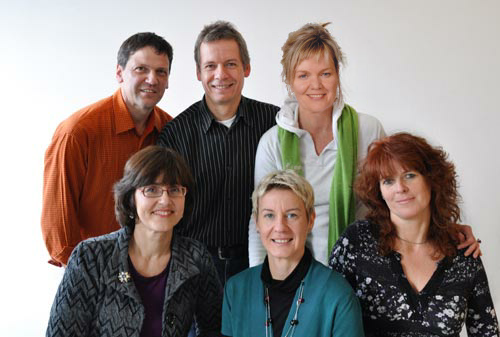
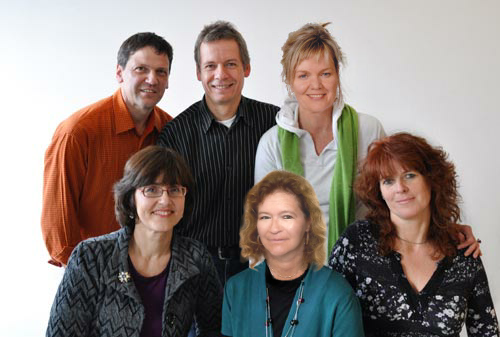
THZ: Replaced Baumeister bei Uhl

Changed region(s): [[0.48, 0.4748, 0.66, 0.8902]]

diff --git a/therapiezentrum-dante/web/subpages/uhl.html b/therapiezentrum-dante/web/subpages/uhl.html
@@ -1,0 +1,96 @@
+<html>
+<head>
+<title>Karin Uhl - Psychologische Beraterin, Coaching für Paare, Familien, Kinder und Jugendliche</title>
+<meta http-equiv="Content-Type" content="text/html; charset=utf-8">
+<link href="../stylesheets/styles.css" rel="Stylesheet" type="text/css">
+<script type="text/javascript" src="../javascript/jquery-1.12.4.min.js"></script>
+<script type="text/javascript" src="../javascript/subpage.js"></script>
+</head>
+
+<body id="uhl">
+	<table id="main">
+		<tr>
+			<td id="text">
+				<h1>
+					<div class="main">Karin Uhl</div>
+					<div class="sub">Psychologische Beraterin, Coaching für Paare, Familien, Kinder und Jugendliche</div>
+				</h1>
+
+				<h2>Hilfe zur Selbsthilfe</h2>
+				<p>Manchmal hilft schon ein offenes Ohr - jemand, der zuhört und die Möglichkeit bietet, über die Belastungen
+					oder Probleme zu sprechen. Im Rahmen dieser Gespräche möchte ich Sie dabei unterstützen, Wege zu finden, um
+					Belastungen zu erkennen und wieder zurück zur inneren Stärke zu gelangen.</p>
+
+				<h2>Gerne unterstütze ich Sie in den Bereichen</h2>
+
+				<ul>
+					<li>Stärkung des Selbstbewusstsein/Stärkung meines ICHs</li>
+					<li>Ressourcen erkennen</li>
+					<li>Stressbewältigung/Entpannung/Vorbeugung von Burnout</li>
+					<li>Unterstützung bei Ängsten und Phobien</li>
+					<li>Entscheidungshilfen</li>
+					<li>Resilienz</li>
+					<li>Konfliktbearbeitung und -lösung im privaten und beruflichen Bereich</li>
+					<li>Vereinbarkeit von Famile, Beruf und Privatleben</li>
+					<li>Ziele und Wünsche verwirklichen</li>
+					<li>„Wie achte ich wieder mehr auf mich selbst?“</li>
+					<li>„Was bin ich mir wert?“</li>
+				</ul>
+
+				<p>Ich arbeite mit verhaltensorientierten Methoden, sowie mit der Gesprächstherapie nach Rogers.</p>
+
+				<h2>Über mich</h2>
+				<ul>
+					<li>geb. 1966 in München</li>
+					<li>Mutter einer mittlerweile erwachsenen Tochter</li>
+					<li>Ausbildung zur Bankkauffrau</li>
+					<li>Sachbearbeitung bei verschiedenen Krankenkassen und Versicherungen</li>
+					<li>Gruppenleitung Mittagsbetreuung</li>
+				</ul>
+
+				<h2>Fortbildungen</h2>
+				<ul>
+					<li>Derzeit Fortbildung zur Heilpraktikerin für Psychotherapie (Deutsche Heilprakikerschule München)</li>
+					<li>Ausbildung zum Psychologischen Berater (Deutsche Heilpraktikerschule München)</li>
+					<li>„Kompetenter Umgang mit disziplinlosen Schülern“ (Staatliches Schulamt Fürstenfeldbruck)</li>
+					<li>„Jetzt konzentrier Dich mal“ (Staatliches Schulamt Fürstenfeldbruck)</li>
+					<li>„Konflikte konstruktiv lösen“ (Konfliktlösungsmodell nach Gordon)</li>
+					<li>Schulung für Mittagsbetreuer (Katholischer Deutscher Frauenbund)</li>
+				</ul>
+
+				<p>Inhalte unter anderem:</p>
+
+				<ul>
+					<li>Kompetenztraining zum Thema Grenzen setzen mit Kindern</li>
+					<li>Kommunikation</li>
+					<li>Entwicklungspsychologischer Stand des Schulkindes</li>
+					<li>Pädagogische Grundlagen und die pädagogische Beobachtung als Bais des Handelns</li>
+					<li>Die Freispielpädagogik in ihren Grundzügen</li>
+				</ul>
+			</td>
+
+			<td id="pict">
+				<div class="image">
+					<img src="../fotos_thz/uhl.jpg">
+				</div>
+
+				<div class="image-text">
+					<div class="name">Karin Uhl</div>
+					<div class="profession">
+						Psychologische Beraterin<br>Coaching für Paare, Familien, Kinder und Jugendliche
+					</div>
+				</div>
+
+				<p>
+					Tel. 0151 / 17234123<br> Termine nach Vereinbarung
+				</p>
+
+				<ul class="arrow">
+					<li><a href="mailto:beratung.karin-uhl@gmx.net">Email</a></li>
+				</ul>
+			</td>
+
+		</tr>
+	</table>
+</body>
+</html>

diff --git a/therapiezentrum-dante/web/subpages/impressum.html b/therapiezentrum-dante/web/subpages/impressum.html
@@ -16,27 +16,6 @@
 				</h1>
 				<h2>Ansprechpartner für die Webseite gemäß §5 TMG:</h2>
 
-				<h3>Astrid Baumeister</h3>
-				<div class="details">
-					<p>
-						Dipl. Oecotrophologin, Heilpraktikerin<br> Praxisadresse: Dantestraße 29, 80637 München<br> Büro:
-						Ernst-Platz-Str. 30a, 80992 München<br>Tel. 089-14869713 / Fax 089-14000421<br> Email:
-						info@praxis-abaumeister.de
-					</p>
-					<p>
-						Berufsbezeichnung 1: Heilpraktikerin<br> Die Erlaubnis zur Ausübung der Heilkunde ohne Bestallung mit der
-						Berufsbezeichnung "Heilpraktikerin" wurde am 22. Mai 2006 durch das Referat für Gesundheit und Umwelt der
-						Landeshauptstadt München erteilt.
-					</p>
-					<p>Berufsbezeichung 2: Diplom Oecotrophologin, Zertifikat Ernährungsberaterin VDOE</p>
-					<p>Mitgliedschaft im Berufsverband BDHN, Bund Deutscher Heilpraktiker und Naturheilkundiger e.V., Weiglstraße
-						9, 80636 München</p>
-					<p>
-						Mitgliedschaft im Berufsverband VDOE, BerufsVerband Oecotrophologie e.V. (VDOE), Reuterstr. 161, 53113 Bonn<br>Es
-						gilt die Berufsordnung des VDOE.
-					</p>
-				</div>
-
 				<h3>Angelika Hall</h3>
 				<div class="details">
 					<p>
@@ -80,6 +59,17 @@
 						Berufsbezeichnung &bdquo;Heilpraktikerin&ldquo; wurde am 13.08.1990 durch das Gesundheitsamt München, Dachauerstr.
 						90 erteilt.
 					</p>
+				</div>
+
+				<h3>Karin Uhl</h3>
+				<div class="details">
+					<p>
+						Psychologische Beraterin<br>Praxisadresse: Dantestraße 29, 80637 München<br> Tel: 0151-17234123<br>Email:
+						beratung.karin-uhl@gmx.net
+					</p>
+					<p>Berufsbezeichnung: Psychologische Beraterin.</p>
+					<p>Mitgliedschaft im Verband Freier Psychotherapeuten, Heilpraktiker für Psychotherapie und Psychologischer
+						Berater e.V., Friedrich-Ludwig-Jahn-Straße 14, 31582 Nienburg/Weser</p>
 				</div>
 
 				<h3>Michael Atzenhofer</h3>

diff --git a/therapiezentrum-dante/web/subpages/main.html b/therapiezentrum-dante/web/subpages/main.html
@@ -15,7 +15,7 @@
 		<area shape="circle" coords="140,73,50" id="atzenhofer">
 		<area shape="circle" coords="315,71,50" id="schraml">
 		<area shape="circle" coords="156,194,50" id="hall">
-		<area shape="circle" coords="282,215,50" id="baumeister">
+		<area shape="circle" coords="282,215,50" id="uhl">
 		<area shape="circle" coords="405,180,50" id="mau">
 	</map>
 
@@ -31,8 +31,8 @@
 	<div class="hoverbox" id="text-hall">
 		<b>Angelika Hall</b><br>Systemische Beratung,<br>Coaching,<br>Psychotherapie<br>
 	</div>
-	<div class="hoverbox" id="text-baumeister">
-		<b>Astrid Baumeister</b><br>Dipl. Oecotrophologin, Heilpraktikerin,<br>Naturheilkunde, Ernährungstherapie
+	<div class="hoverbox" id="text-uhl">
+		<b>Karin Uhl</b><br>Psychologische Beraterin,<br>Coaching für Paare, Familien, Kinder und Jugendliche
 	</div>
 	<div class="hoverbox" id="text-mau">
 		<b>Claudia Mau</b><br>staatl. gepr. Masseurin,<br>Körpertherapie,<br>Heilpraktikerin

diff --git a/therapiezentrum-dante/web/menu_left.html b/therapiezentrum-dante/web/menu_left.html
@@ -14,8 +14,8 @@
 	<a href="subpages/graeper.html" target="main" id="graeper">Jan Gräper</a>
 	<a href="subpages/hall.html" target="main" id="hall">Angelika Hall</a>
 	<a href="subpages/mau.html" target="main" id="mau">Claudia Mau</a>
-	<a href="subpages/baumeister.html" target="main" id="baumeister">Astrid Baumeister</a>
 	<a href="subpages/schraml.html" target="main" id="schraml">Sybille Schraml</a>
+	<a href="subpages/uhl.html" target="main" id="uhl">Karin Uhl</a>
 	<hr>
 	<a href="subpages/anfahrt.html" target="main" id="anfahrt">Anfahrt</a>
 	<hr>

diff --git a/therapiezentrum-dante/web/index.html b/therapiezentrum-dante/web/index.html
@@ -10,7 +10,7 @@
 Bioresonanz, Chinesische Medizin, Farblichttherapie, Hakomi, Energetisches Heilen, Rolfing,
 Naturheilkundliche Stoffwechselregulation, Diättherapie - Diätbegleitung, Osteopathie, Massage,
 Hypnotherapie, München, Sybille Schraml, Michael Atzenhofer, Jan Gräper, Angelika Hall, Claudia Mau,
-Astrid Baumeister">
+Karin Uhl">
 <link href="stylesheets/iframes.css" rel="Stylesheet" type="text/css">
 <link href="stylesheets/styles.css" rel="Stylesheet" type="text/css">
 <link rel="shortcut icon" href="graphics/therapiezentrum.ico">

diff --git a/therapiezentrum-dante/web/stylesheets/styles.css b/therapiezentrum-dante/web/stylesheets/styles.css
@@ -214,9 +214,9 @@ body#mainpage div.hoverbox#text-hall {
 	left: 60px;
 }
 
-body#mainpage div.hoverbox#text-baumeister {
+body#mainpage div.hoverbox#text-uhl {
 	top: 350px;
-	left: 260px;
+	left: 220px;
 }
 
 body#mainpage div.hoverbox#text-mau {
